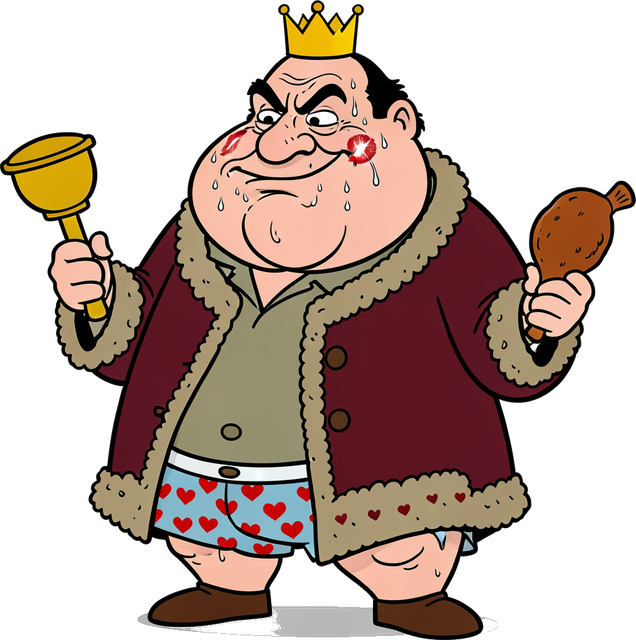
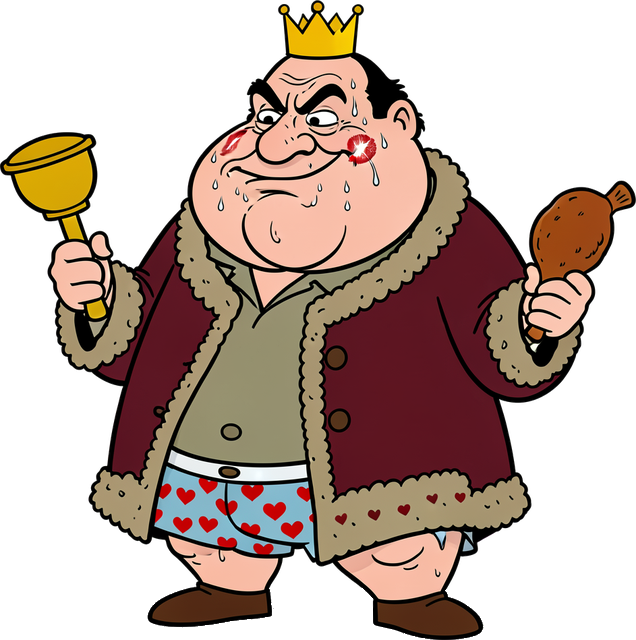
No white background left on Зажигалка and Рикошет, no floor shadow under the king (#97)
The first cutout of the early figures removed only the white touching the
picture's edge. Background enclosed by a figure stayed white: between
Зажигалка's cigarette holder and her shoulder, round the bottle at her hip,
and inside Рикошет's spinning rings and his belt ring. The first floor's
boss kept the render's grey floor shadow between his boots.

art/heroes/cut_leftovers.py cuts white gaps named by a point inside each
(white clothing stays) and clears a grey floor shadow from the bottom rows,
keeping the soft edge of the lines around both. A gap that is now too small
for the plate's margin to go round no longer leaves a dark speck in the
standee's plastic: the plate fills such specks.

Claude-Session: https://claude.ai/code/session_018v8HHWHfEafCrTUTRrZDD7

Changed region(s): [[0.4182, 0.9375, 0.6274, 1.0], [0.2091, 0.9375, 0.3286, 1.0], [0.3585, 0.9688, 0.3884, 1.0]]

diff --git a/src/draw/standee.ts b/src/draw/standee.ts
@@ -84,6 +84,26 @@ function blur(src: Uint8Array, W: number, H: number, r: number): Float32Array {
   return a;
 }
 
+/** Close the empty patches enclosed by the plate that are smaller than `limit` pixels: plastic fills them. */
+function fillSpecks(shape: Uint8Array, plate: Uint8Array, W: number, H: number, limit: number) {
+  const seen = new Uint8Array(W * H), stack: number[] = [], patch: number[] = [];
+  for (let s = 0; s < W * H; s++) {
+    if (plate[s] || seen[s]) continue;
+    let open = false;
+    patch.length = 0;
+    stack.push(s);
+    seen[s] = 1;
+    while (stack.length) {
+      const i = stack.pop()!, x = i % W, y = (i - x) / W;
+      patch.push(i);
+      if (x === 0 || y === 0 || x === W - 1 || y === H - 1) open = true;
+      for (const j of [x > 0 ? i - 1 : -1, x < W - 1 ? i + 1 : -1, y > 0 ? i - W : -1, y < H - 1 ? i + W : -1])
+        if (j >= 0 && !plate[j] && !seen[j]) { seen[j] = 1; stack.push(j); }
+    }
+    if (!open && patch.length < limit) for (const i of patch) { shape[i] = 255; plate[i] = 255; }
+  }
+}
+
 const mixRgb = (a: Rgb, b: Rgb, t: number): Rgb => [a[0] + (b[0] - a[0]) * t, a[1] + (b[1] - a[1]) * t, a[2] + (b[2] - a[2]) * t];
 
 /** Colour of the plate's edge at depth t (0 front face, 1 back face): a glossy lip, then darker toward the back. */
@@ -124,6 +144,8 @@ export function makeStandee(img: HTMLImageElement, facing: 'left' | 'right', rel
     shape[i] = Math.min(255, pic[i * 4 + 3] * 6);
     plate[i] = shape[i] >= 128 ? 255 : 0;
   }
+  // a gap in the figure too narrow for the plate's margin to go round would leave a speck in the plastic: fill it
+  fillSpecks(shape, plate, w, h, B * B / 2);
   c.clearRect(0, 0, w, h);
 
   // the edge: each pixel takes the shallowest copy of the outline, swept back toward the back face, that covers it

diff --git a/art/heroes/cut_leftovers.py b/art/heroes/cut_leftovers.py
@@ -1,0 +1,66 @@
+"""Cut the background the first cutout left on a figure: white gaps it encloses, a grey floor shadow under the feet.
+
+The old cutout removed only the white connected to the image border, so background enclosed by the figure stayed
+white (between Зажигалка's cigarette holder and shoulder, inside Рикошет's rings), and the render's grey floor
+shadow stayed under the feet (the king). White clothing looks the same as a white gap, so the gaps are named by
+hand: a point inside each (--at x,y, repeatable). The near-white area round the point goes, and its soft edge is
+matted against white as in the cutout. --shadow F clears light neutral grey from the bottom F of the picture, the
+ink lines it touched keeping their soft edge.
+
+usage: python3 cut_leftovers.py in.png out.png [--at 122,278 ...] [--shadow 0.08]
+"""
+import argparse
+
+import numpy as np
+from PIL import Image
+from scipy import ndimage as nd
+
+p = argparse.ArgumentParser()
+p.add_argument("src")
+p.add_argument("dst")
+p.add_argument("--at", action="append", default=[], help="x,y inside a white gap that must become transparent")
+p.add_argument("--shadow", type=float, default=0, help="bottom fraction of the picture where a grey floor shadow is cleared")
+a = p.parse_args()
+
+im = np.asarray(Image.open(a.src).convert("RGBA")).astype(np.float32)
+rgb, alpha = im[..., :3], im[..., 3] / 255
+mn, mx = rgb.min(2), rgb.max(2)
+out = im.copy()
+na = alpha.copy()
+
+# white gaps: the gap goes, the 2px band round it is matted against white
+lab, _ = nd.label((alpha > 0.5) & (mn >= 232) & (mx - mn <= 14))
+gap = np.zeros(alpha.shape, bool)
+for k in a.at:
+    x, y = (int(v) for v in k.split(","))
+    if not lab[y, x]:
+        raise SystemExit(f"{x},{y} is not on white")
+    gap |= lab == lab[y, x]
+band = nd.binary_dilation(gap, iterations=2) & ~gap
+ab = np.clip((255 - mn) / 170, 0, 1)
+out[band, :3] = np.clip((rgb - (1 - ab[..., None]) * 255) / np.maximum(ab, 1e-3)[..., None], 0, 255)[band]
+na[band] = np.minimum(alpha, ab)[band]
+na[gap] = 0
+
+# floor shadow: light grey in the bottom rows goes; the grey blended into the ink next to it becomes see-through ink
+shadow = np.zeros(alpha.shape, bool)
+if a.shadow:
+    h = alpha.shape[0]
+    zone = np.zeros(alpha.shape, bool)
+    zone[int(h * (1 - a.shadow)):] = True
+    grey = zone & (mx - mn <= 20) & (alpha > 0)
+    shadow = grey & (((alpha >= 0.8) & (mn >= 150)) | ((alpha < 0.8) & (mn >= 60)))
+    level = np.median(mn[shadow & (alpha >= 0.8)]) if (shadow & (alpha >= 0.8)).any() else 184
+    edge = nd.binary_dilation(shadow, iterations=2) & ~shadow & grey
+    out[edge, :3] = 0
+    na[edge] = (alpha * np.clip(1 - mn / level, 0, 1))[edge]
+    na[shadow] = 0
+    # specks of the shadow's rim that touch no solid part of the figure go too
+    loose = zone & ~nd.binary_dilation(na >= 0.8, iterations=2) & (na > 0)
+    shadow |= loose
+    na[loose] = 0
+
+out[..., 3] = na * 255
+out[na == 0, :3] = 0
+Image.fromarray(out.round().astype(np.uint8), "RGBA").save(a.dst, optimize=True)
+print(f"{a.dst}: {int(gap.sum())} px cut in {len(a.at)} gaps, {int(shadow.sum())} px of floor shadow")

diff --git a/README.md b/README.md
@@ -92,7 +92,7 @@ npm run build    # сборка в dist/
 
 Фигурки рисуются кодом, пока нет картинок. Чтобы подключить картинку:
 
-1. Положить PNG с прозрачным фоном в `public/assets/heroes/` или `public/assets/mobs/` (фигурка в полный рост, без подставки, ступни у нижнего края).
+1. Положить PNG с прозрачным фоном в `public/assets/heroes/` или `public/assets/mobs/` (фигурка в полный рост, без подставки, ступни у нижнего края). Проверить её на тёмном фоне: белый фон, зажатый фигурой (между рукой и телом, внутри кольца), и серая тень пола под ногами убираются `python3 art/heroes/cut_leftovers.py in.png out.png --at x,y --shadow 0.08`, а дырки, ошибочно вырезанные в белой одежде, заливает `art/heroes/fill_holes.py`.
 2. Добавить её в `public/assets/manifest.json`:
 
 ```json
